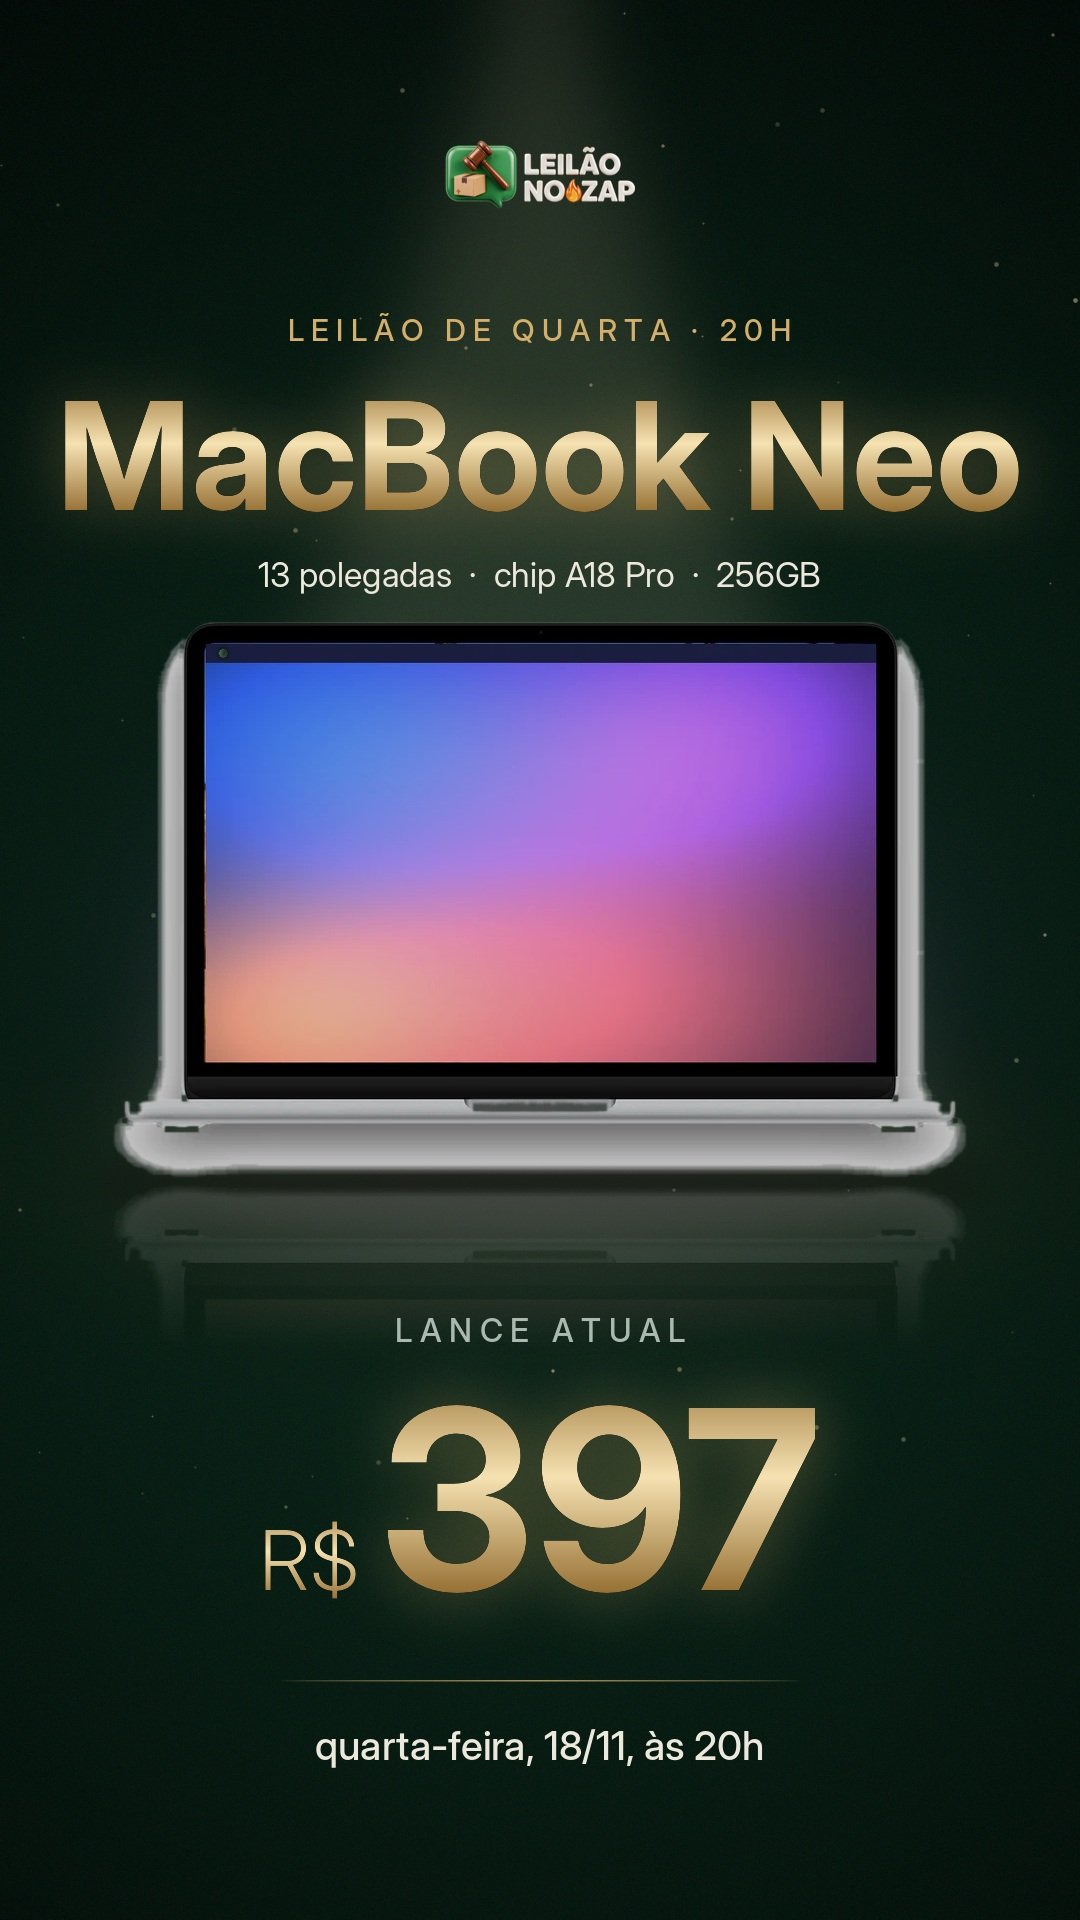
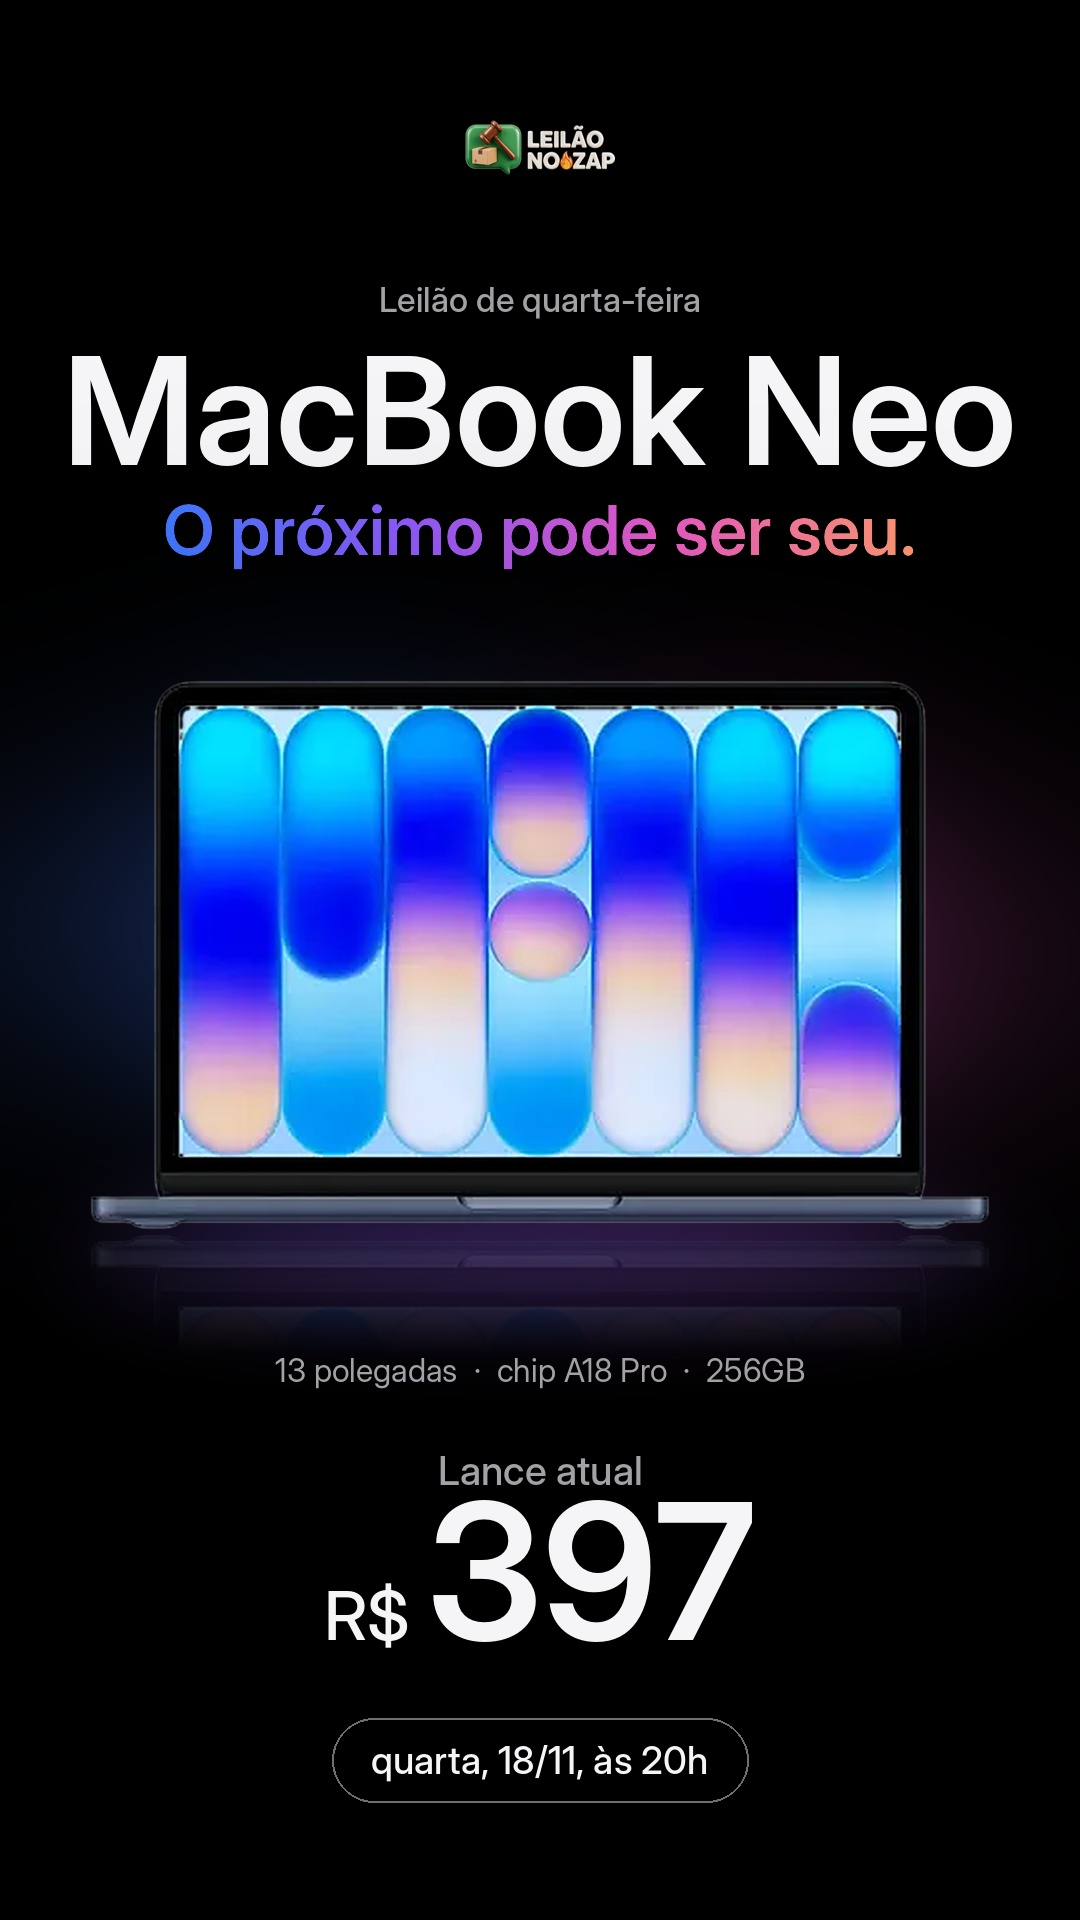
MacBook de quarta: artes no estilo das propagandas da Apple (referências da Natália)
Claude-Session: https://claude.ai/code/session_01JihU9VfVTYTrMqQpApFEjH

diff --git a/marketing/semana-2026-11-16/segunda-16-11/fonte/artes_macbook_apple.py b/marketing/semana-2026-11-16/segunda-16-11/fonte/artes_macbook_apple.py
@@ -1,0 +1,61 @@
+# MacBook Neo (qua 18/11, 20h) no jeito das propagandas da Apple (referências da Natália, 16/11): fundo preto,
+# produto herói com a luz da tela "acendendo" a cena, reflexo no chão, pouco texto em branco/cinza. Foto principal do leilão.
+# Uso: artes_macbook_apple.py <lance>
+import os, sys
+import numpy as np
+from PIL import Image, ImageDraw, ImageFont, ImageFilter, ImageChops, ImageEnhance
+AQ = os.path.dirname(os.path.abspath(__file__)); OUT = os.path.dirname(AQ); MK = '/home/user/Leil-onozaplivoo/marketing'
+LANCE = sys.argv[1] if len(sys.argv) > 1 else '397'
+F = lambda p, t: ImageFont.truetype(f'/usr/share/fonts/opentype/inter/InterDisplay-{p}.otf', t)
+BRANCO, CINZA, CINZA2 = (245, 245, 247), (161, 161, 166), (110, 110, 115)
+GRAD = [(64, 120, 255), (150, 90, 255), (235, 90, 200), (255, 150, 110)]   # as cores da tela do produto
+W = H = 0
+
+def produto(larg):
+    im = Image.open(f'{AQ}/fotos/1793811068141_1_macbook-neo-de-13-polegadas-chip-a18-pro-cpu-6-nucleos-gpu-5.webp').convert('RGB')
+    im = im.resize((im.width * 4, im.height * 4), Image.LANCZOS).filter(ImageFilter.UnsharpMask(3, 120, 2))
+    a = np.asarray(im).astype(float); al = Image.fromarray((np.clip((246 - a.min(axis=2)) / 14, 0, 1) * 255).astype('uint8'))
+    al = al.filter(ImageFilter.MinFilter(5)).filter(ImageFilter.GaussianBlur(1.5))
+    p = im.convert('RGBA'); p.putalpha(al); p = p.crop(al.getbbox()); return p.resize((larg, int(p.height * larg / p.width)), Image.LANCZOS)
+
+def gradiente_txt(b, xy, t, f, anchor='mm'):
+    m = Image.new('L', (W, H)); ImageDraw.Draw(m).text(xy, t, font=f, fill=255, anchor=anchor); x0, y0, x1, y1 = m.getbbox()
+    g = Image.new('RGBA', (W, H)); gd = ImageDraw.Draw(g)
+    for x in range(x0, x1 + 1):
+        k = (x - x0) / max(1, x1 - x0) * (len(GRAD) - 1); i = min(int(k), len(GRAD) - 2); t2 = k - i
+        gd.line((x, 0, x, H), fill=tuple(int(c0 + (c1 - c0) * t2) for c0, c1 in zip(GRAD[i], GRAD[i + 1])) + (255,))
+    b.alpha_composite(Image.composite(g, Image.new('RGBA', (W, H), (0, 0, 0, 0)), m))
+
+def luz(b, cx, cy, rx, ry, cor, a, blur):
+    g = Image.new('RGBA', (W, H)); ImageDraw.Draw(g).ellipse((cx - rx, cy - ry, cx + rx, cy + ry), fill=cor + (a,)); b.alpha_composite(g.filter(ImageFilter.GaussianBlur(blur)))
+
+def arte(w, h, nome, y):
+    global W, H; W, H = w, h
+    b = Image.new('RGBA', (W, H), (0, 0, 0, 255)); d = ImageDraw.Draw(b)
+    lg = Image.open(f'{MK}/marca/logo-horizontal-transparente.png').convert('RGBA'); lg.thumbnail((150, 60)); b.alpha_composite(lg, ((W - lg.width) // 2, y['logo']))
+    d = ImageDraw.Draw(b)
+    d.text((W / 2, y['kicker']), 'Leilão de quarta-feira', font=F('Medium', 34), fill=CINZA, anchor='mm')
+    d.text((W / 2, y['nome']), 'MacBook Neo', font=F('SemiBold', y['tam']), fill=BRANCO, anchor='mm')
+    gradiente_txt(b, (W / 2, y['frase']), 'O próximo pode ser seu.', F('SemiBold', y['tam'] * 46 // 100))
+    p = produto(y['larg']); px, base = (W - p.width) // 2, y['base']
+    # a tela acende a cena: brilho colorido atrás e no chão
+    luz(b, W / 2 - p.width * .22, base - p.height * .55, p.width * .38, p.height * .42, GRAD[0], 120, 140)
+    luz(b, W / 2 + p.width * .2, base - p.height * .5, p.width * .38, p.height * .42, GRAD[2], 110, 140)
+    luz(b, W / 2, base + 20, p.width * .55, 70, GRAD[1], 120, 60)
+    r = p.transpose(Image.FLIP_TOP_BOTTOM).crop((0, 0, p.width, int(p.height * .22)))
+    gm = Image.linear_gradient('L').resize(r.size).point(lambda v: int((255 - v) * .22)); r.putalpha(ImageChops.multiply(r.split()[3], gm))
+    b.alpha_composite(r, (px, base + 4)); b.alpha_composite(p, (px, base - p.height))
+    d = ImageDraw.Draw(b)
+    d.text((W / 2, y['spec']), '13 polegadas  ·  chip A18 Pro  ·  256GB', font=F('Regular', 32), fill=CINZA, anchor='mm')
+    d.text((W / 2, y['rotulo']), 'Lance atual', font=F('Medium', 40), fill=CINZA, anchor='mm')
+    fR, fN = F('Medium', y['tam_lance'] * 36 // 100), F('SemiBold', y['tam_lance']); wr = d.textlength('R$ ', font=fR); wn = d.textlength(LANCE, font=fN); x0 = (W - wr - wn) / 2
+    d.text((x0, y['lance']), 'R$', font=fR, fill=BRANCO, anchor='ls'); d.text((x0 + wr, y['lance']), LANCE, font=fN, fill=BRANCO, anchor='ls')
+    t = 'quarta, 18/11, às 20h'; ft = F('Medium', 38); wt = d.textlength(t, font=ft)
+    d.rounded_rectangle((W / 2 - wt / 2 - 40, y['data'] - 42, W / 2 + wt / 2 + 40, y['data'] + 42), 42, outline=CINZA2, width=2)
+    d.text((W / 2, y['data']), t, font=ft, fill=BRANCO, anchor='mm')
+    b.convert('RGB').save(f'{OUT}/{nome}', quality=95); print('ok', nome)
+
+arte(1080, 1920, 'arte-macbook-story.jpg', dict(logo=120, kicker=300, nome=410, tam=150, frase=530, larg=900, base=1230,
+     spec=1370, rotulo=1470, lance=1640, tam_lance=190, data=1760))
+arte(1080, 1350, 'arte-macbook-feed.jpg', dict(logo=45, kicker=150, nome=238, tam=112, frase=328, larg=690, base=860,
+     spec=955, rotulo=1030, lance=1165, tam_lance=128, data=1262))
